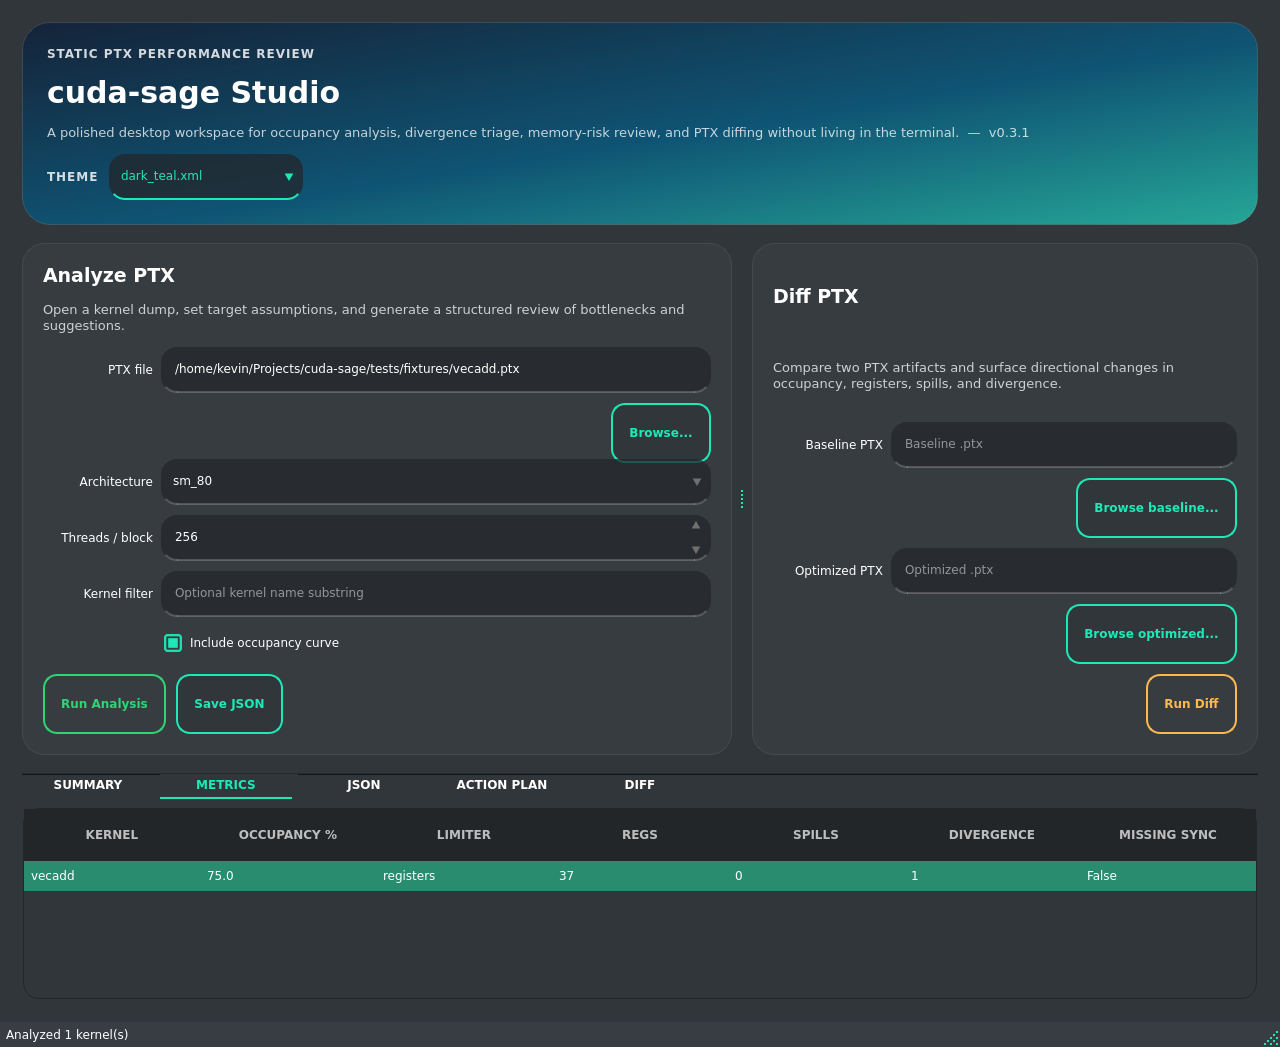
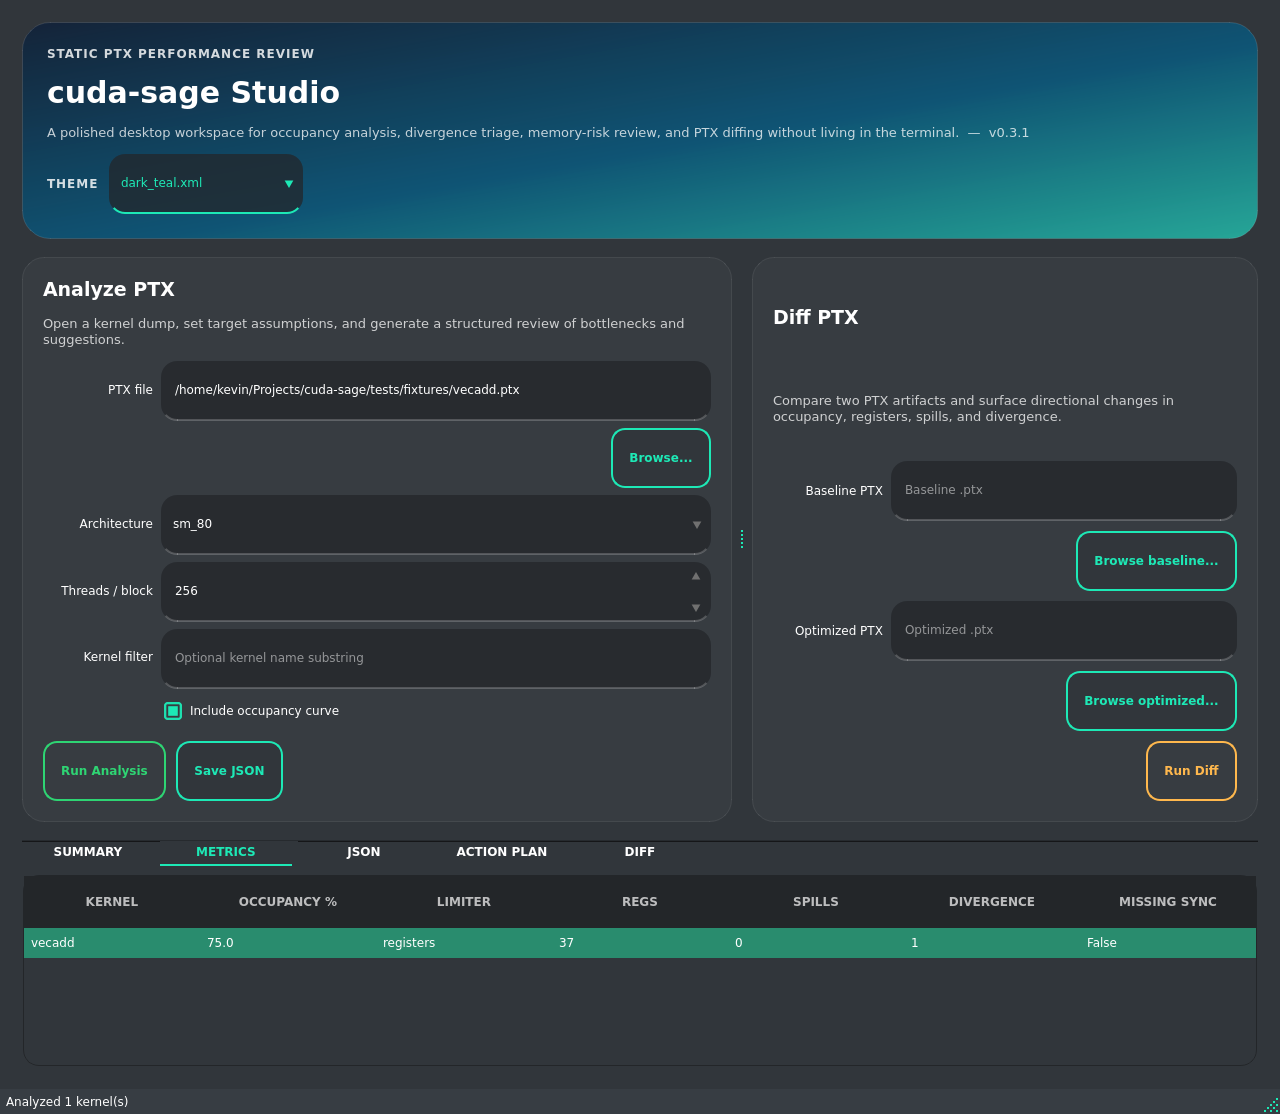
fix: increase GUI field heights for readable dropdowns

diff --git a/src/cudasage/gui.py b/src/cudasage/gui.py
@@ -197,6 +197,7 @@ QTabWidget::pane {
 QLineEdit,
 QComboBox,
 QSpinBox {
+    min-height: 42px;
     padding: 8px 12px;
 }
 
@@ -672,6 +673,7 @@ def main() -> None:
             self.theme_combo = QComboBox()
             self.theme_combo.setToolTip("Switch the application color theme. Requires qt-material to be installed.")
             self.theme_combo.setAccessibleName("Color theme selector")
+            self.theme_combo.setMinimumHeight(42)
             self.theme_combo.setMinimumWidth(180)
             self.theme_combo.addItems(self.available_themes)
             self.theme_combo.setCurrentText(self.current_theme)
@@ -699,6 +701,7 @@ def main() -> None:
             self.ptx_path.setPlaceholderText("Select a .ptx file to inspect")
             self.ptx_path.setToolTip("Path to the PTX file to analyze. Use Browse to pick a file.")
             self.ptx_path.setAccessibleName("PTX file path")
+            self.ptx_path.setMinimumHeight(42)
 
             pick_ptx_btn = QPushButton("Browse...")
             pick_ptx_btn.setToolTip("Open a file-picker dialog to select a .ptx file (Alt+B).")
@@ -713,6 +716,7 @@ def main() -> None:
             self.arch_combo.setAccessibleDescription(
                 "Select the SM generation that matches the GPU the kernel will run on."
             )
+            self.arch_combo.setMinimumHeight(42)
             self.arch_combo.setMinimumWidth(180)
             for sm in sorted(ARCHITECTURES.keys()):
                 self.arch_combo.addItem(sm)
@@ -726,6 +730,7 @@ def main() -> None:
                 "Assumed threads per block for occupancy calculation. Common values: 128, 256, 512."
             )
             self.threads_spin.setAccessibleName("Threads per block")
+            self.threads_spin.setMinimumHeight(42)
             self.threads_spin.setMinimumWidth(120)
 
             self.kernel_filter = QLineEdit()
@@ -733,6 +738,7 @@ def main() -> None:
             self.kernel_filter.setToolTip("Filter results to kernels whose name contains this substring (case-sensitive).")
             self.kernel_filter.setAccessibleName("Kernel filter")
             self.kernel_filter.setAccessibleDescription("Leave empty to analyze all kernels in the file.")
+            self.kernel_filter.setMinimumHeight(42)
 
             self.curve_box = QCheckBox("Include occupancy curve")
             self.curve_box.setToolTip("Emit a CSV of occupancy vs. thread-count alongside the report.")
@@ -829,6 +835,7 @@ def main() -> None:
             self.base_path.setPlaceholderText("Baseline .ptx")
             self.base_path.setToolTip("Path to the baseline (before-optimisation) PTX file.")
             self.base_path.setAccessibleName("Baseline PTX path")
+            self.base_path.setMinimumHeight(42)
 
             base_btn = QPushButton("Browse baseline...")
             base_btn.setToolTip("Open a file-picker dialog to select the baseline .ptx file.")
@@ -840,6 +847,7 @@ def main() -> None:
             self.opt_path.setPlaceholderText("Optimized .ptx")
             self.opt_path.setToolTip("Path to the optimized (after-change) PTX file.")
             self.opt_path.setAccessibleName("Optimized PTX path")
+            self.opt_path.setMinimumHeight(42)
 
             opt_btn = QPushButton("Browse optimized...")
             opt_btn.setToolTip("Open a file-picker dialog to select the optimized .ptx file.")
